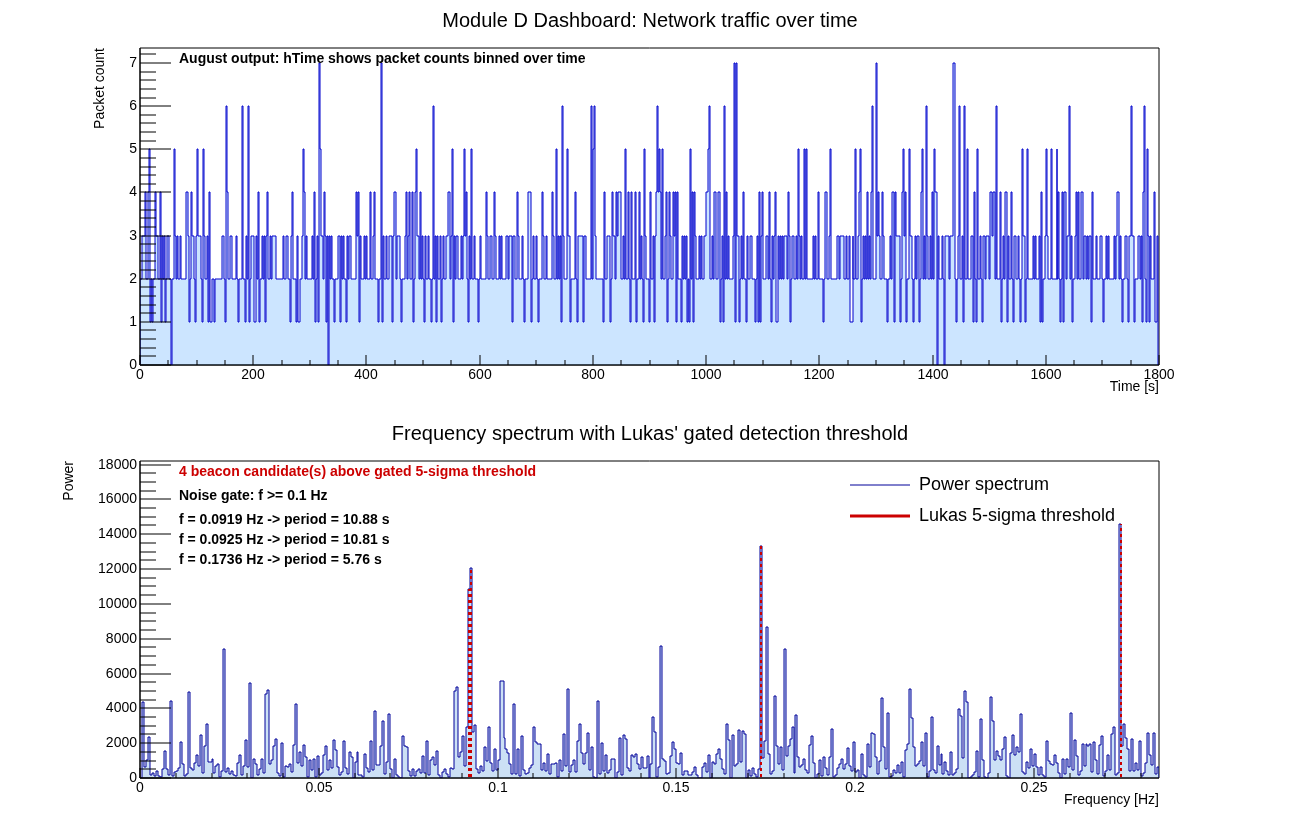
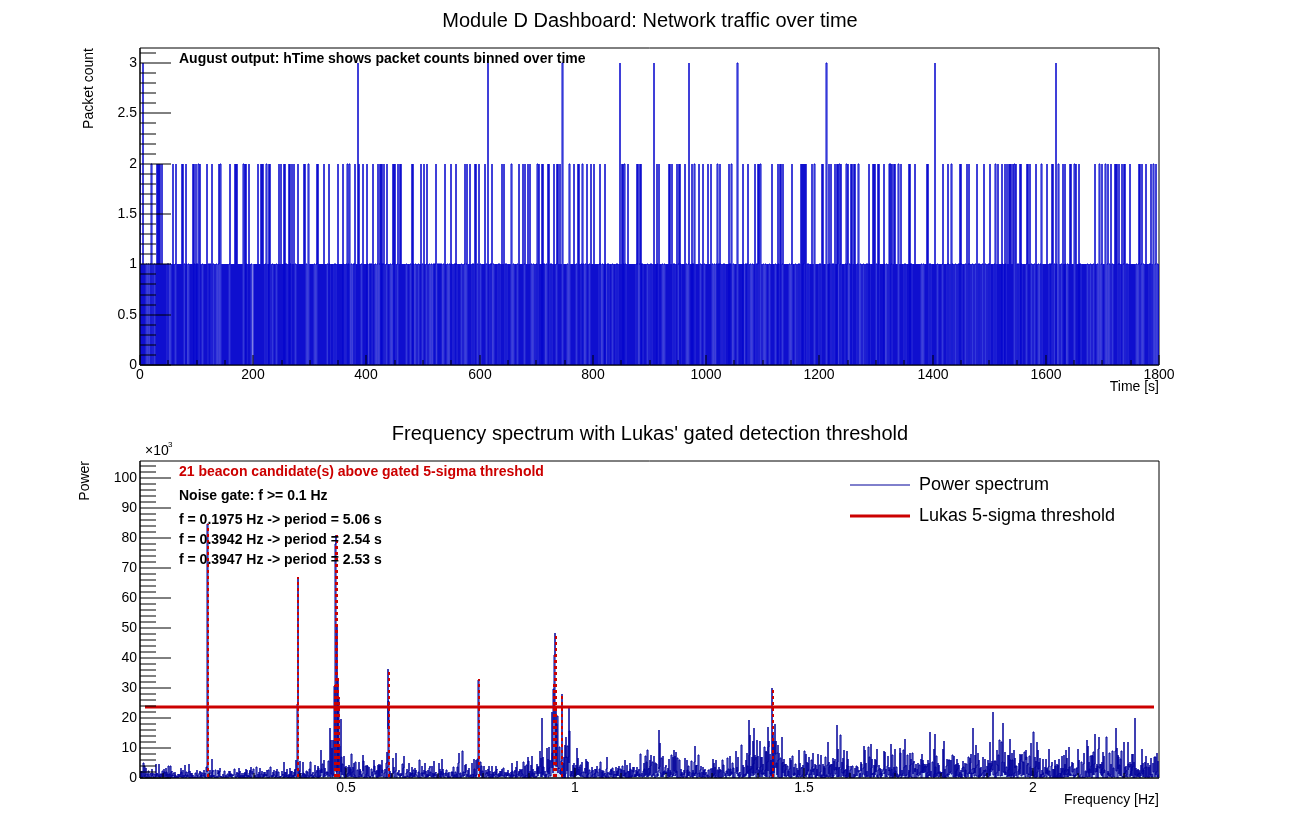
oppdatert vindu visualisering

diff --git a/william_lukas.cpp b/william_lukas.cpp
@@ -175,7 +175,7 @@ void william_lukas(const char *rootFileName = "august.root")
     hFreq->SetLineColor(kBlue + 2);
     hFreq->SetFillColorAlpha(kAzure + 2, 0.20);
     hFreq->SetTitle("Frequency spectrum with Lukas' gated detection threshold;Frequency [Hz];Power");
-    hFreq->GetXaxis()->SetRangeUser(0.4, hFreq->GetXaxis()->GetXmax());
+    hFreq->GetXaxis()->SetRangeUser(0.05, hFreq->GetXaxis()->GetXmax());
 
     // Kjører Lukas sin terskelmetode på histogrammet fra August.
     DetectionResult detection = run_lukas_detection_rule(hFreq);
@@ -207,7 +207,7 @@ void william_lukas(const char *rootFileName = "august.root")
     if (detection.threshold > 0.0)
     {
         // Tegner Lukas sin 5-sigma terskel som en rød linje.
-        thresholdLine = new TF1("lukas_threshold", "[0]", 0.4, hFreq->GetXaxis()->GetXmax());
+        thresholdLine = new TF1("lukas_threshold", "[0]", 0.05, hFreq->GetXaxis()->GetXmax());
         thresholdLine->SetParameter(0, detection.threshold);
         thresholdLine->SetLineColor(kRed + 1);
         thresholdLine->SetLineWidth(3);

diff --git a/august.cpp b/august.cpp
@@ -25,10 +25,10 @@ void august()
 
     // Laster inn data (Leser de tre kolonnene fra Tshark)
     // SATT TIL SCENARIO 3 FOR Å TESTE DETEKSJON I STØY:
-    ifstream fin("datasett3_high_noise.txt");
+    ifstream fin("datasett4_multi.txt");
     if (!fin)
     {
-        cout << "Error: Kunne ikke åpne datasett3_high_noise.txt!\n";
+        cout << "Error: Kunne ikke åpne datasett4_multi.txt!\n";
         return;
     }
 
